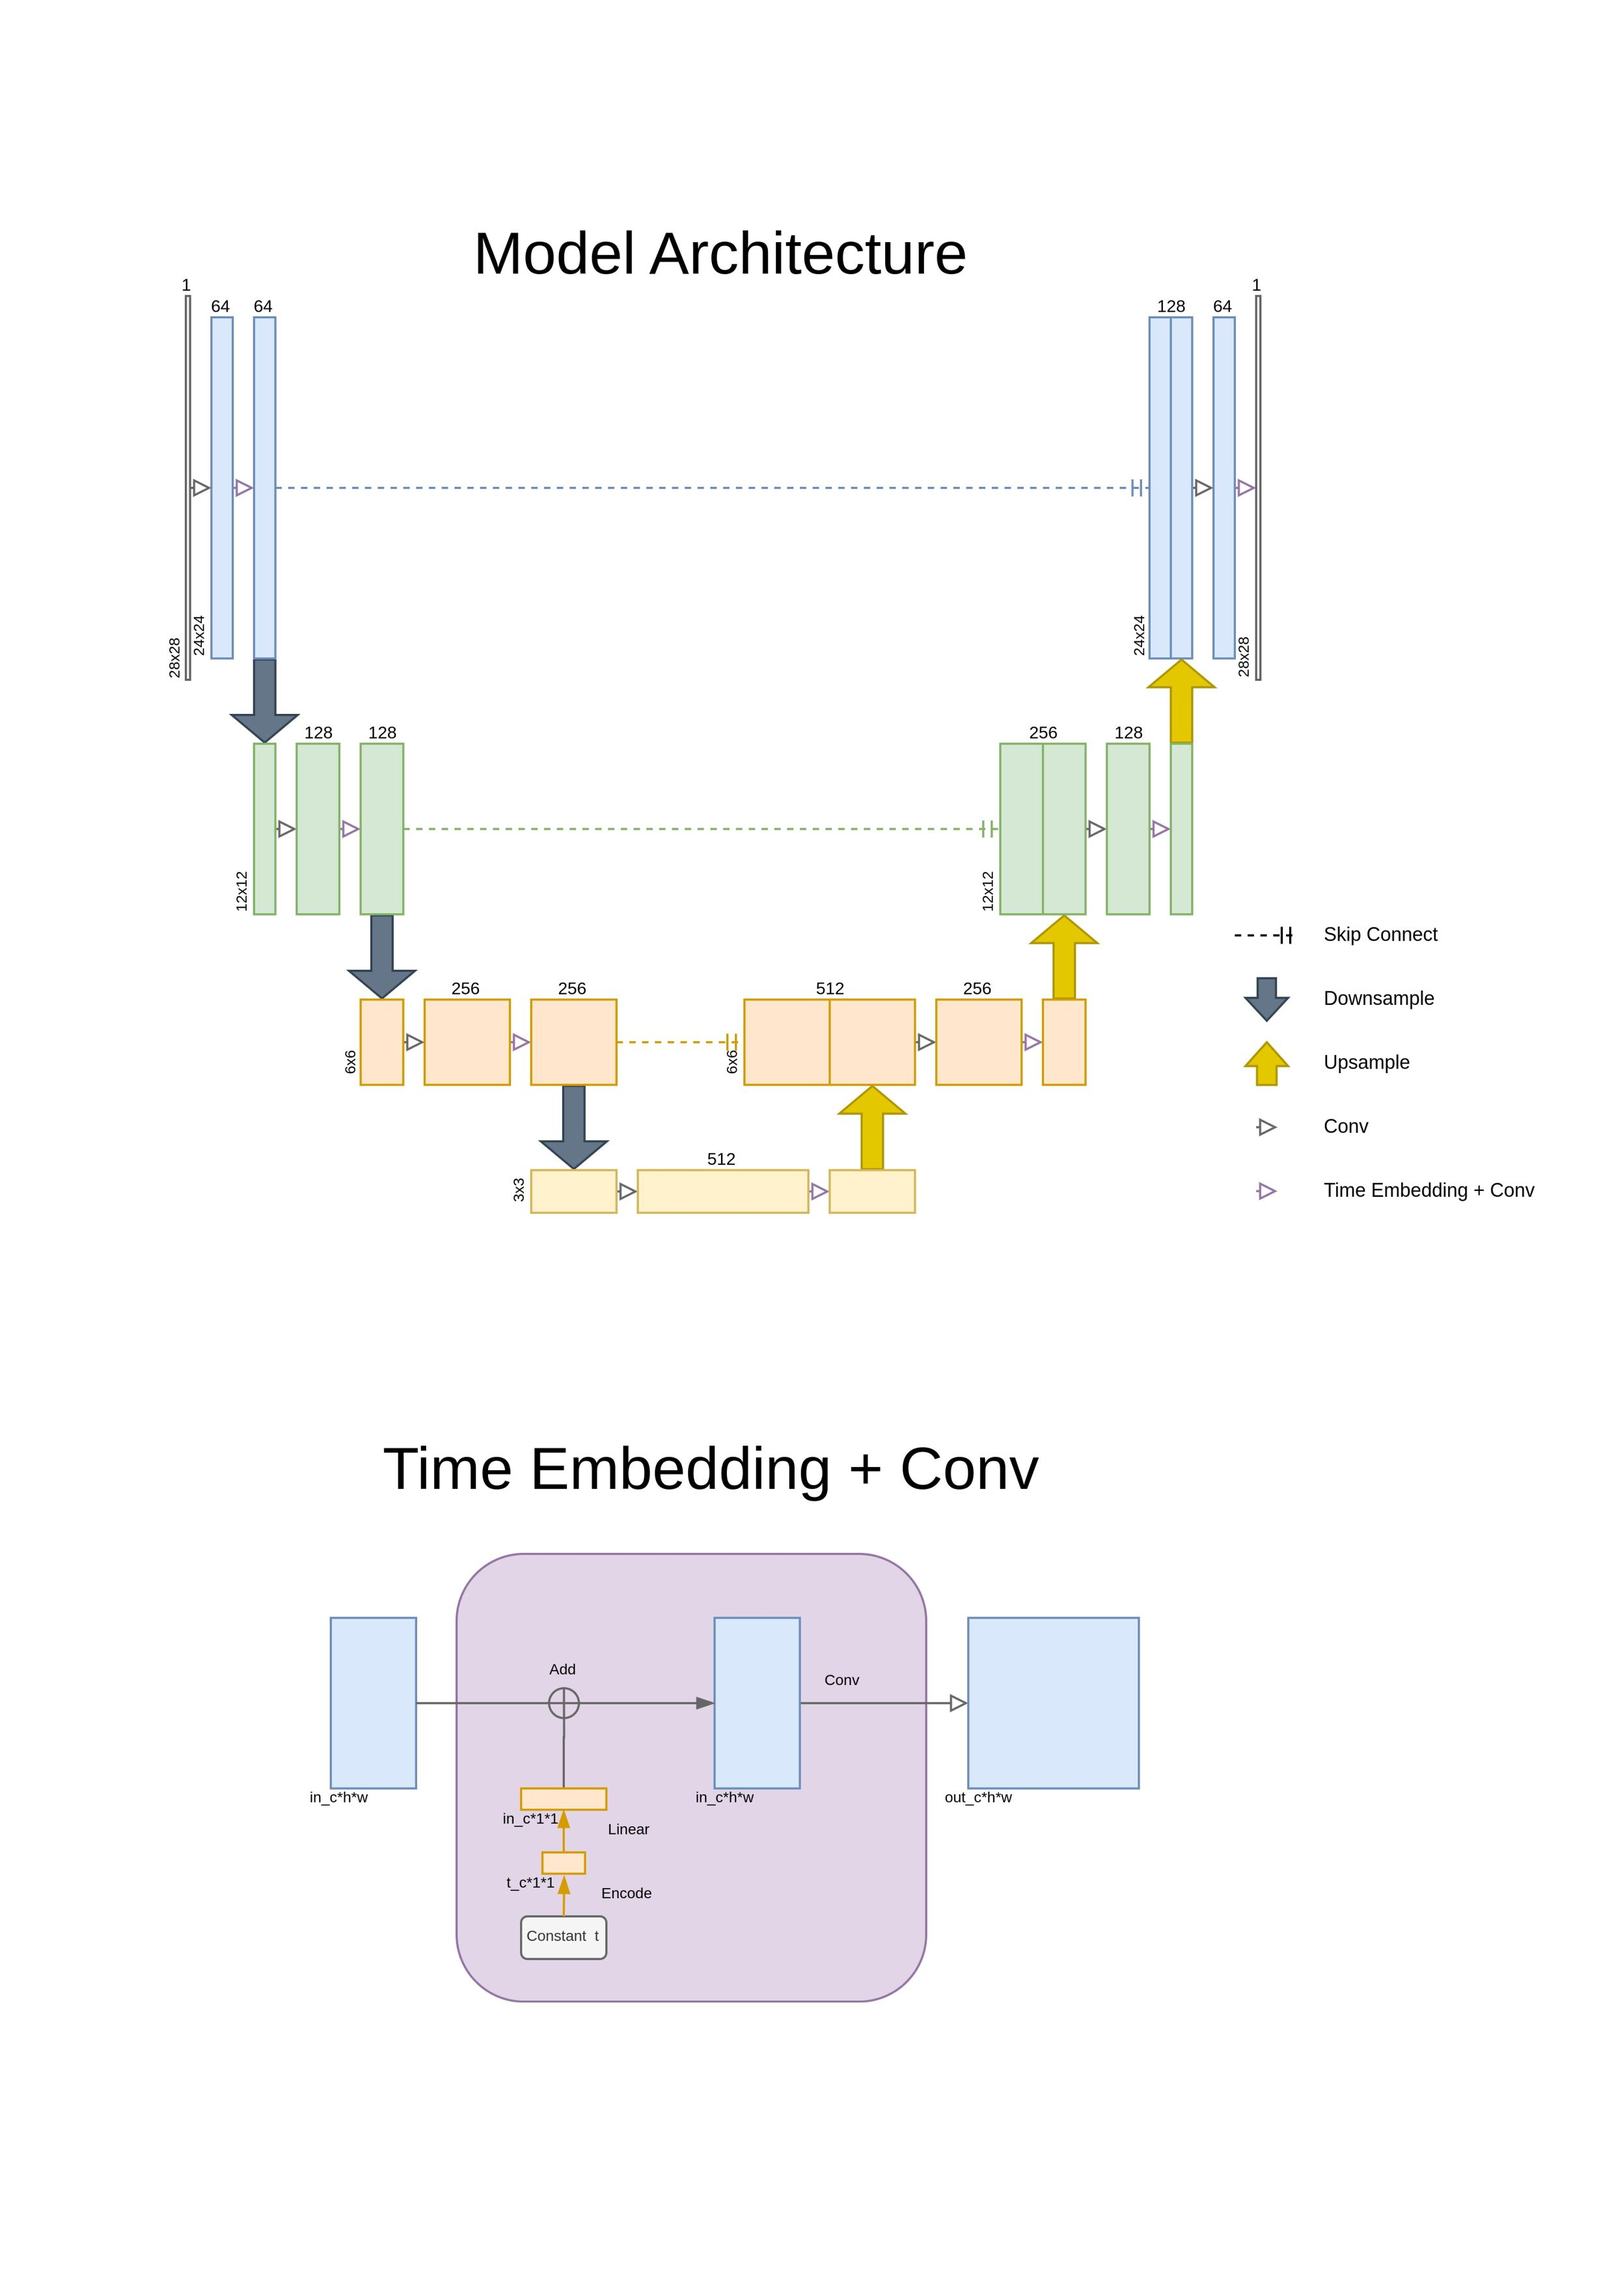
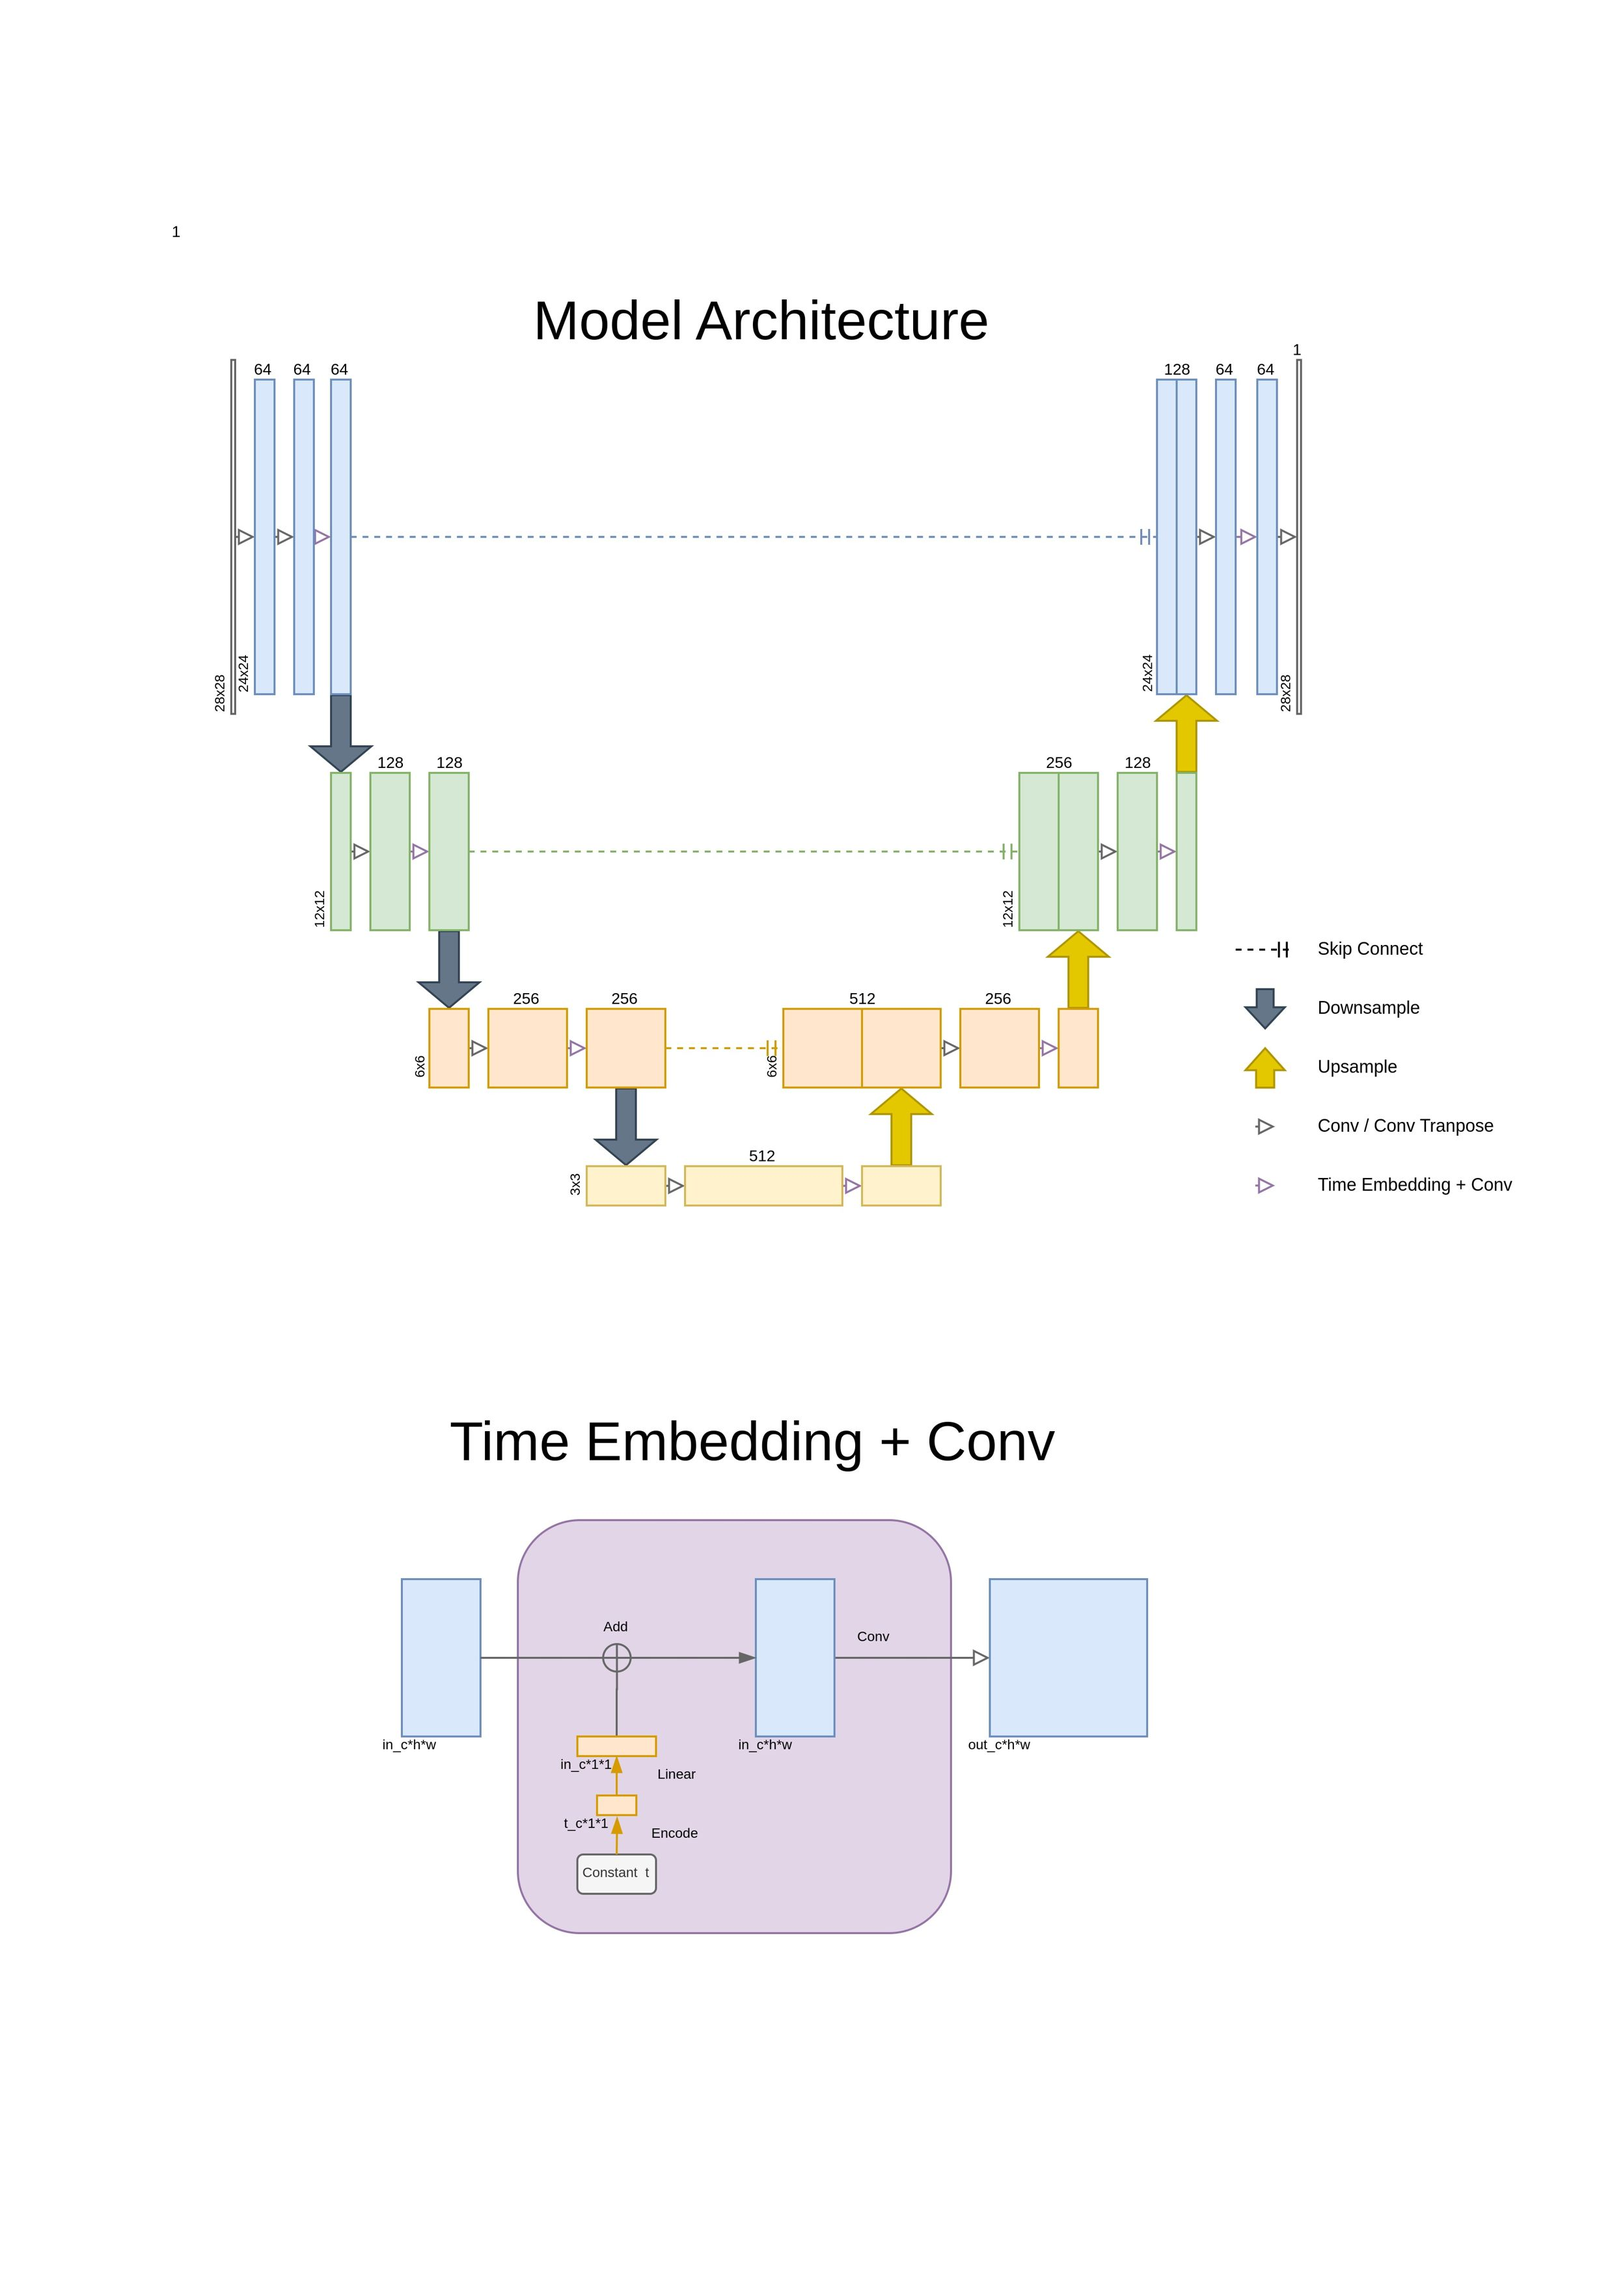
add UNet

diff --git a/unet/unet_parts.py b/unet/unet_parts.py
@@ -1,0 +1,119 @@
+import torch
+import torch.nn as nn
+
+import math
+
+
+class TimeEmbedding(nn.Module):
+    def __init__(self, t_channels):
+        super().__init__()
+        self.t_channels = t_channels
+
+    def forward(self, time_step):
+        time_step.unsqueeze_(-1)
+        frac_len = math.ceil(self.t_channels / 2)
+        frac = time_step / (torch.pow(10000, torch.arange(0, frac_len, 1, device=time_step.device) / self.t_channels))
+        ret = torch.zeros([time_step.size(0), self.t_channels], device=time_step.device)
+        ret[:, 0::2] = torch.sin(frac)
+        ret[:, 1::2] = torch.cos(frac)
+        return ret
+
+
+class DoubleConv(nn.Module):
+    def __init__(self, in_channels, out_channels, mid_channels, t_channels):
+        super().__init__()
+        self.conv1 = nn.Sequential(
+            nn.Conv2d(in_channels, mid_channels, 3, 1, 1, bias=False),
+            nn.BatchNorm2d(mid_channels),
+            nn.ReLU(inplace=True)
+        )
+        self.conv2 = nn.Sequential(
+            nn.Conv2d(mid_channels, out_channels, 3, 1, 1, bias=False),
+            nn.BatchNorm2d(out_channels),
+            nn.ReLU(inplace=True)
+        )
+        self.time = nn.Sequential(
+            nn.Linear(t_channels, mid_channels)
+        )
+
+    def forward(self, x, t):
+        x = self.conv1(x)
+        t = self.time(t)
+        t = torch.reshape(t, [t.size(0), -1, 1, 1])
+        x = x + t
+        x = self.conv2(x)
+        return x
+
+
+class Downsample(nn.Module):
+    def __init__(self):
+        super().__init__()
+        self.pool = nn.MaxPool2d(2, 2)
+
+    def forward(self, x):
+        return self.pool(x)
+
+
+class Upsample(nn.Module):
+    def __init__(self):
+        super().__init__()
+        self.upsample = nn.Upsample(scale_factor=2, mode='bilinear', align_corners=True)
+
+    def forward(self, x):
+        return self.upsample(x)
+
+
+class Down(nn.Module):
+    def __init__(self, in_channels, out_channels, t_channels, mid_channels=None):
+        super().__init__()
+        if not mid_channels:
+            mid_channels = out_channels
+        self.down = Downsample()
+        self.conv = DoubleConv(in_channels, out_channels, mid_channels, t_channels)
+
+    def forward(self, x, t):
+        x = self.down(x)
+        x = self.conv(x, t)
+        return x
+
+
+class Up(nn.Module):
+    def __init__(self, in_channels, out_channels, t_channels, mid_channels=None):
+        super().__init__()
+        if not mid_channels:
+            mid_channels = out_channels
+        self.up = Upsample()
+        self.conv = DoubleConv(in_channels, out_channels, mid_channels, t_channels)
+
+    def forward(self, x, x_skip, t):
+        x = self.up(x)
+        x = torch.cat([x, x_skip], dim=1)
+        x = self.conv(x, t)
+        return x
+
+
+class In(nn.Module):
+    def __init__(self, in_channels, out_channels, t_channels):
+        super().__init__()
+        self.in_conv = nn.Sequential(
+            nn.Conv2d(in_channels, out_channels, 5, 1, 0, bias=False),
+            nn.BatchNorm2d(out_channels),
+            nn.ReLU(inplace=True)
+        )
+        self.double_conv = DoubleConv(out_channels, out_channels, out_channels, t_channels)
+
+    def forward(self, x, t):
+        x = self.in_conv(x)
+        x = self.double_conv(x, t)
+        return x
+
+
+class Out(nn.Module):
+    def __init__(self, in_channels, out_channels):
+        super().__init__()
+        self.conv = nn.Sequential(
+            nn.ConvTranspose2d(in_channels, out_channels, 5, 1, 0)
+        )
+
+    def forward(self, x):
+        return self.conv(x)

diff --git a/unet/unet_model.py b/unet/unet_model.py
@@ -1,0 +1,35 @@
+from unet.unet_parts import *
+
+
+class UNet(nn.Module):
+    def __init__(self, in_channels=1, out_channels=1, t_channels=64):
+        super().__init__()
+        self.time_embedding = TimeEmbedding(t_channels)
+        self.in_conv = In(in_channels, 64, t_channels)
+        self.down1 = Down(64, 128, t_channels)
+        self.down2 = Down(128, 256, t_channels)
+        self.down3 = Down(in_channels=256, mid_channels=512, out_channels=256, t_channels=t_channels)
+        self.up3 = Up(in_channels=512, mid_channels=256, out_channels=128, t_channels=t_channels)
+        self.up2 = Up(in_channels=256, mid_channels=128, out_channels=64, t_channels=t_channels)
+        self.up1 = Up(in_channels=128, out_channels=64, t_channels=t_channels)
+        self.out_conv = Out(64, out_channels)
+
+    def forward(self, x, time_step):
+        t = self.time_embedding(time_step)
+        x1 = self.in_conv(x, t)
+        x2 = self.down1(x1, t)
+        x3 = self.down2(x2, t)
+        x = self.down3(x3, t)
+        x = self.up3(x, x3, t)
+        x = self.up2(x, x2, t)
+        x = self.up1(x, x1, t)
+        return self.out_conv(x)
+
+
+device = torch.device('cuda' if torch.cuda.is_available() else 'cpu')
+
+model = UNet()
+model.to(device)
+
+y = model(torch.randn([4, 1, 28, 28]).to(device), torch.tensor([3., 5., 7., 1.]).to(device))
+print(y.shape)

diff --git a/unet/__init__.py b/unet/__init__.py
@@ -1,1 +1,1 @@
-from unet.unet_model import DDPMUNet
+from unet.unet_model import UNet
